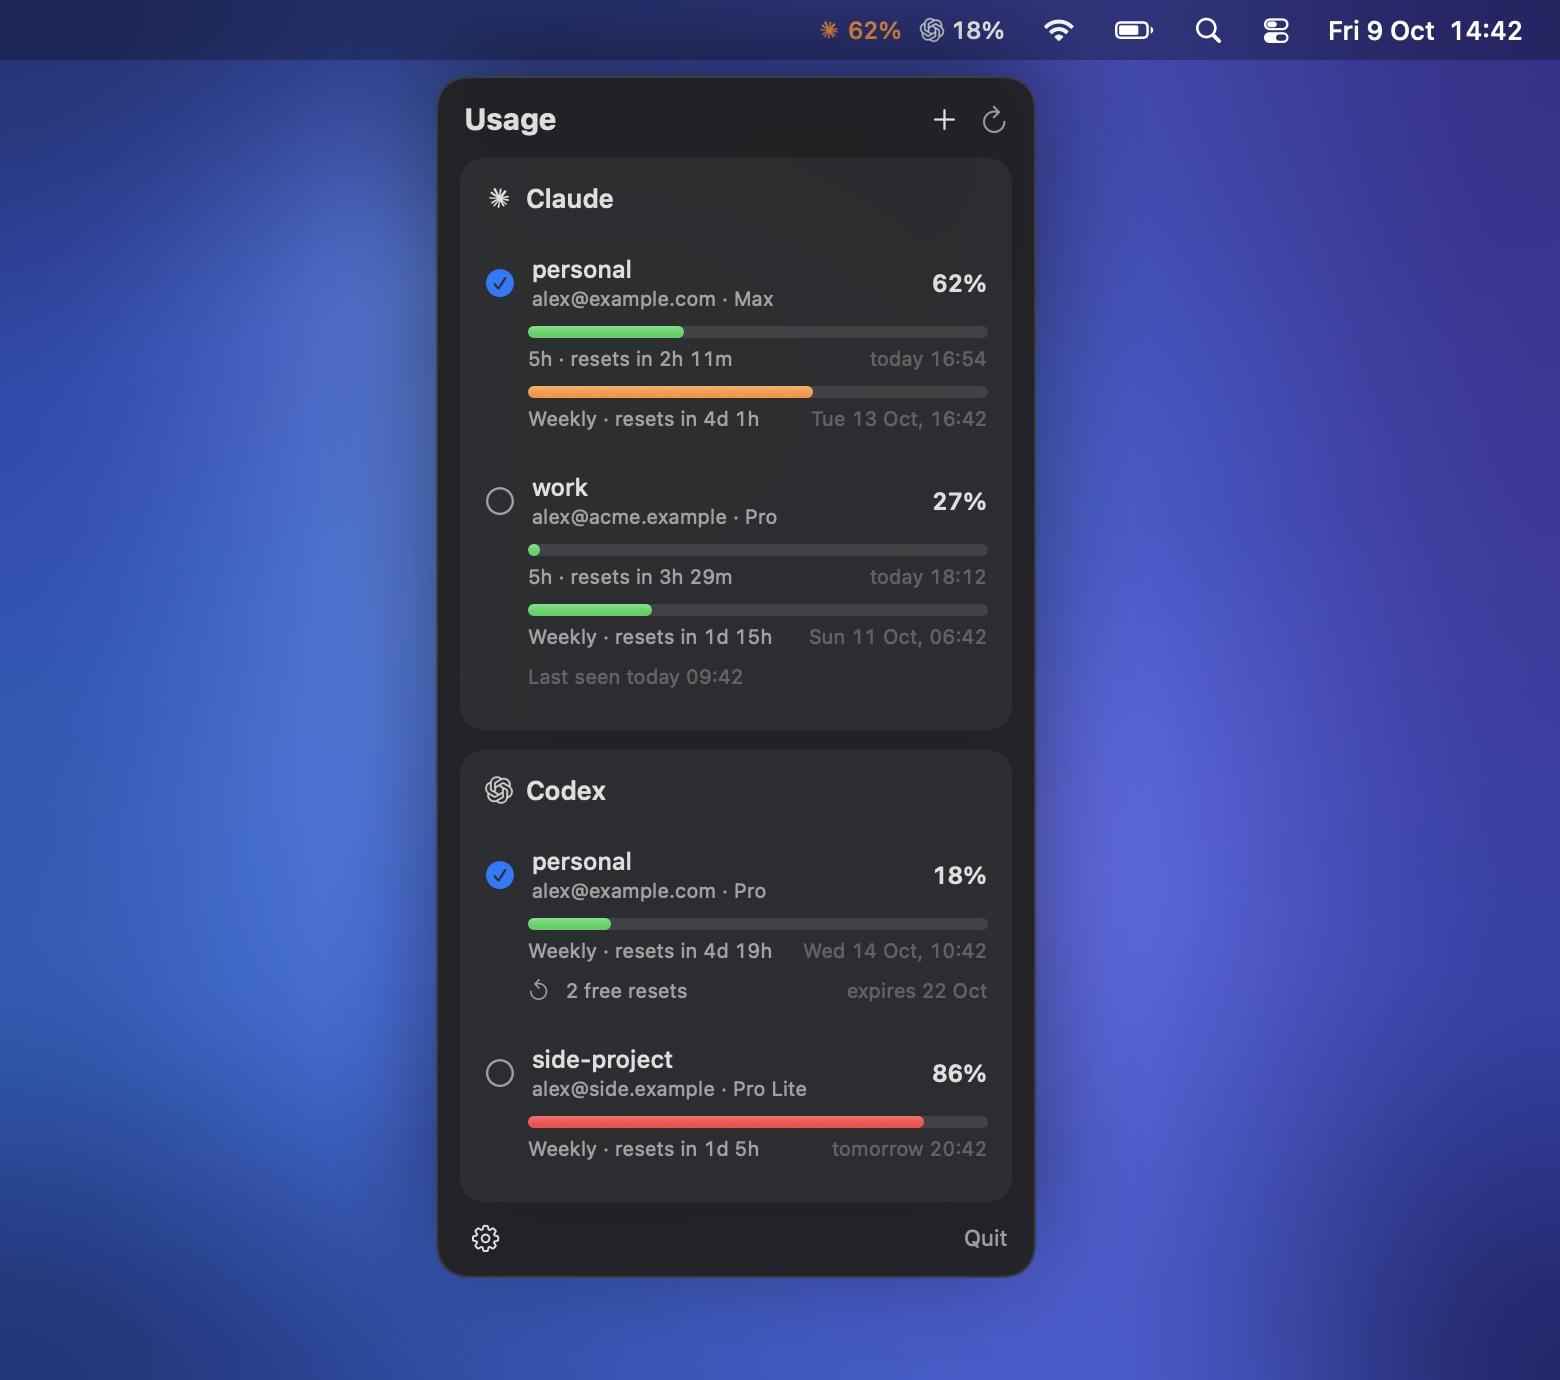
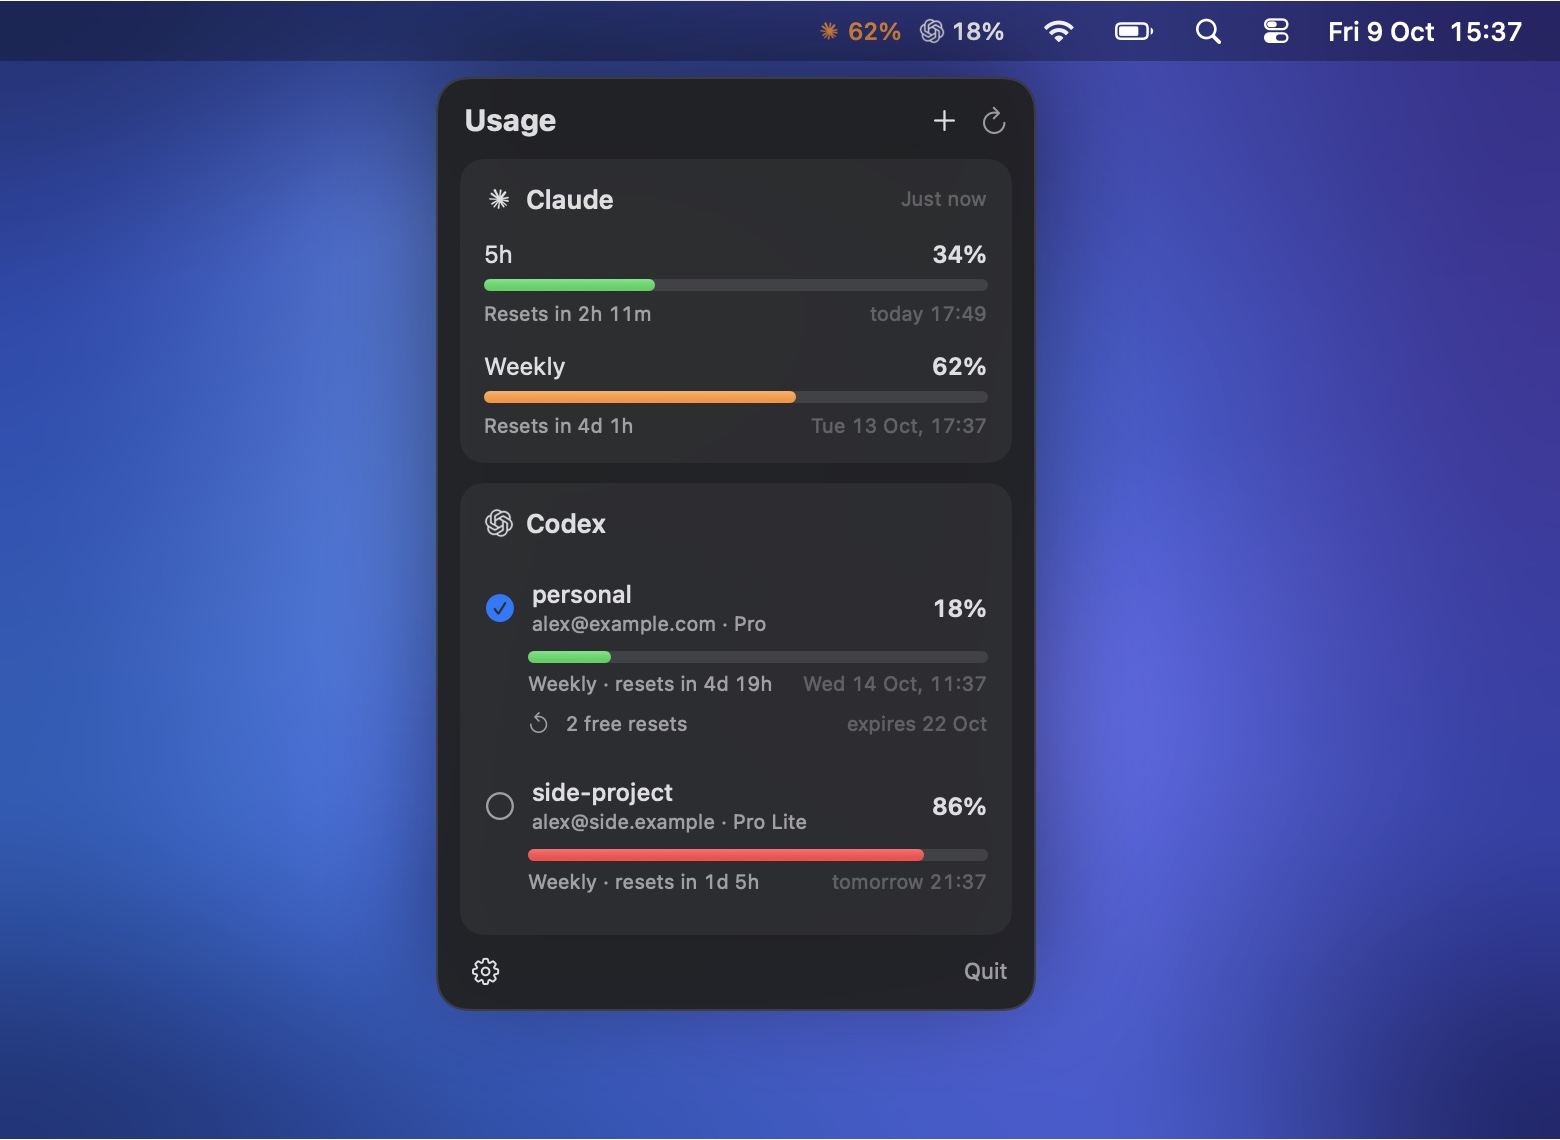
Screenshots: one Claude account in dark, two in light
The dark desktop shows the Claude card with a single saved account (plain
limit bars), the light one with two accounts (account rows), so both layouts
are visible. Each image is now as tall as its panel.

diff --git a/tools/screenshots/Screenshots.swift b/tools/screenshots/Screenshots.swift
@@ -12,7 +12,8 @@ func window(_ label: String, _ percent: Int, resetsIn h: Double) -> UsageWindow 
 }
 
 @MainActor
-func demoModel() -> UsageModel {
+/// `singleClaude`: one saved Claude account, so the card shows plain limit bars instead of rows.
+func demoModel(singleClaude: Bool) -> UsageModel {
     let model = UsageModel(live: false)
     let personal = Account(
         brand: .claude, name: "personal", email: "alex@example.com", plan: "max", active: true,
@@ -24,7 +25,7 @@ func demoModel() -> UsageModel {
         error: nil, limitReached: false,
         windows: [window("5h", 0, resetsIn: 3.5), window("Weekly", 27, resetsIn: 40)],
         resets: [], lastSeen: hours(-5))
-    model.claudeAccounts = [personal, work]
+    model.claudeAccounts = singleClaude ? [personal] : [personal, work]
     model.claude = personal.windows
     model.claudeUpdated = Date()
     model.codex = [
@@ -128,21 +129,20 @@ struct Desktop: View {
     let dark: Bool
     let label: NSImage
 
+    /// The image is as tall as the panel needs, plus a margin: no empty wallpaper below it.
     var body: some View {
-        ZStack(alignment: .top) {
-            Wallpaper(dark: dark)
-            VStack(spacing: 0) {
-                MenuBar(dark: dark, label: label)
-                HStack {
-                    Spacer()
-                    PanelChrome(model: model, dark: dark)
-                        .padding(.trailing, 262)
-                        .padding(.top, 8)
-                }
+        VStack(spacing: 0) {
+            MenuBar(dark: dark, label: label)
+            HStack {
                 Spacer()
+                PanelChrome(model: model, dark: dark)
+                    .padding(.trailing, 262)
+                    .padding(.top, 8)
             }
         }
-        .frame(width: 780, height: 690)
+        .padding(.bottom, 64)
+        .frame(width: 780)
+        .background(Wallpaper(dark: dark))
     }
 }
 
@@ -186,8 +186,8 @@ struct Screenshots {
         let app = NSApplication.shared
         app.setActivationPolicy(.prohibited)
         let out = CommandLine.arguments.dropFirst().first ?? "."
-        let model = demoModel()
         for (dark, suffix) in [(true, "dark"), (false, "light")] {
+            let model = demoModel(singleClaude: dark)  // one look at each Claude card layout
             let appearance: NSAppearance.Name = dark ? .darkAqua : .aqua
             try render(Desktop(model: model, dark: dark, label: menuBarLabel(dark: dark)),
                        appearance: appearance, to: "\(out)/desktop-\(suffix).png")
